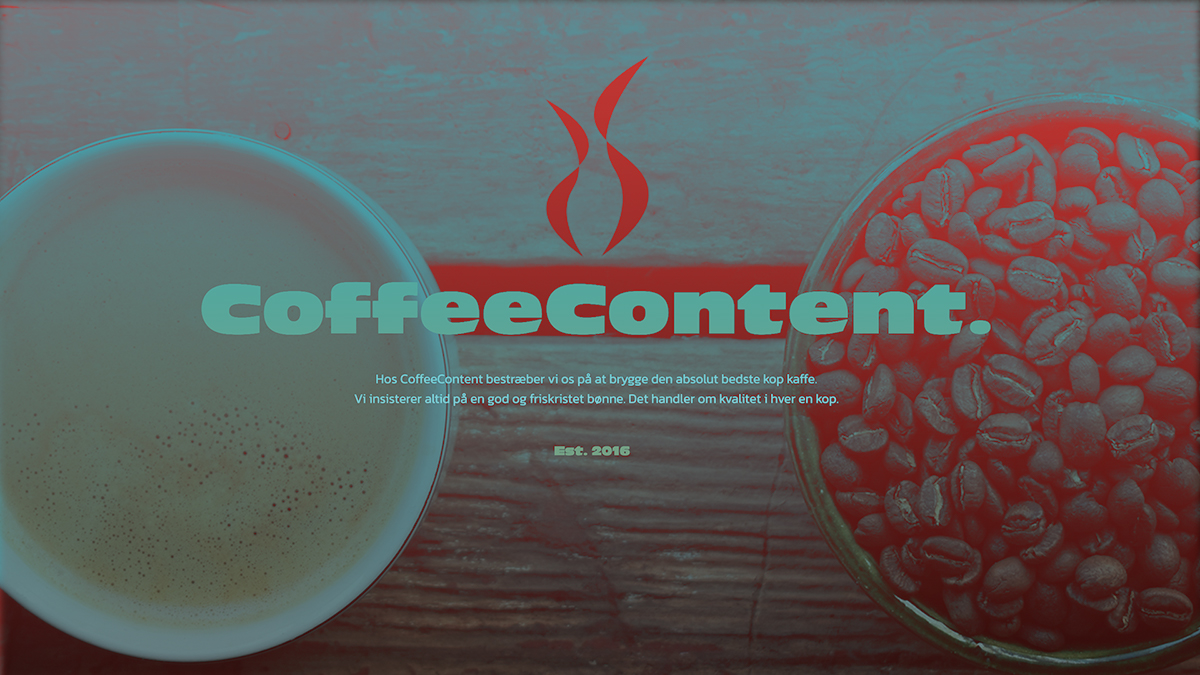
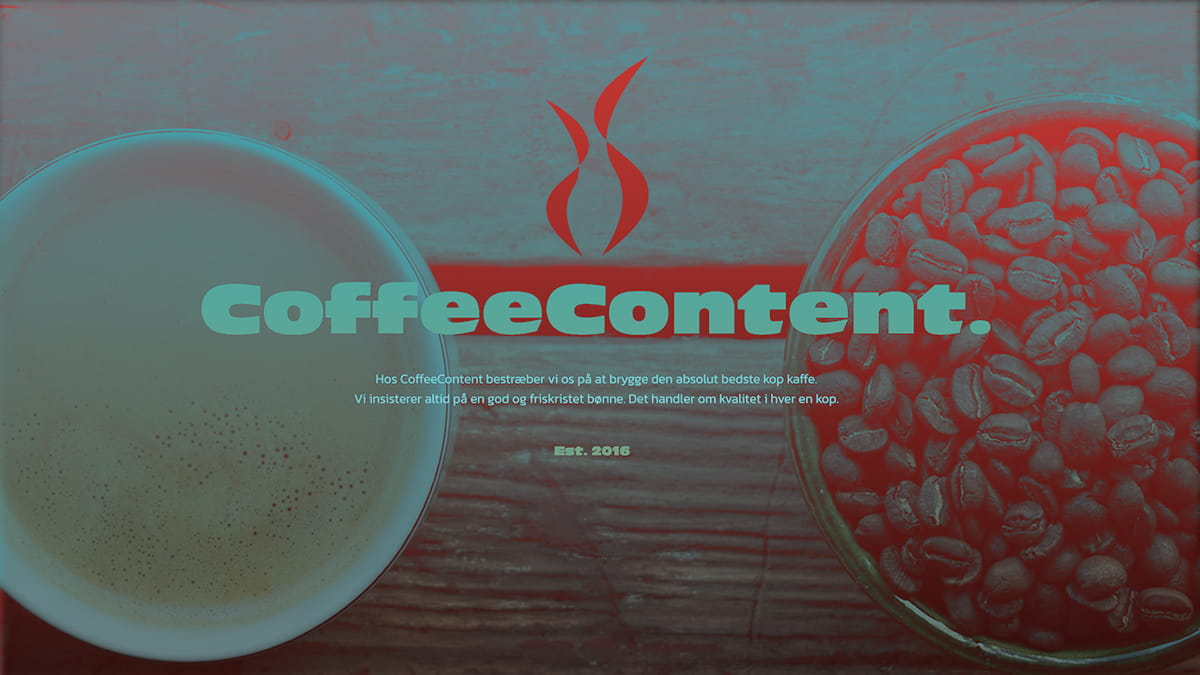
optimering af billeder

Changed region(s): [[0.3083, 0.56, 0.7092, 0.6222], [0.4933, 0.4667, 0.5242, 0.4978], [0.4317, 0.4356, 0.4625, 0.4667]]

diff --git a/index.html b/index.html
@@ -76,13 +76,13 @@
         <h2>Projekter</h2>
         <div class="image-container">
 
-            <figure> <a href="web.html"><img src="billeder/projektPrejpg.jpg" alt="projekt"></a>
+            <figure> <a href="web.html"><img src="billeder/projektPrejpg-kopi.jpg" alt="projekt"></a>
 
                 <figcaption>Grundlæggende Web</figcaption>
 
             </figure>
 
-            <figure> <a href="ux.html"><img src="billeder/projektpre2.jpg" alt="projekt"></a>
+            <figure> <a href="ux.html"><img src="billeder/projektpre2-kopi.jpg" alt="projekt"></a>
 
 
                 <figcaption>UI/UX</figcaption>
@@ -93,14 +93,14 @@
 
         <section id="thirdsectionProjectsPre2">
             <div class="image-container">
-                <figure><a href="animation.html"><img src="billeder/projektPre4.jpg" alt="projekt"></a>
+                <figure><a href="animation.html"><img src="billeder/projektPre4-kopi.jpg" alt="projekt"></a>
 
 
                     <figcaption>Animation</figcaption>
 
                 </figure>
 
-                <figure><a href="indhold.html"><img src="billeder/proejktPre3.jpg" alt="projekt"></a>
+                <figure><a href="indhold.html"><img src="billeder/proejktPre3-kopi.jpg" alt="projekt"></a>
 
                     <figcaption>Indhold</figcaption>
 

diff --git a/om.html b/om.html
@@ -77,7 +77,7 @@
 
     <section id="fourthparagraphommig">
         <div class="overskriftogimg">
-            <a href="https://www.instagram.com/arianadanmark/" target="_blank"><img src="billeder/arianadanmark.png" alt="arianadanmark"></a>
+            <a href="https://www.instagram.com/arianadanmark/" target="_blank"><img src="billeder/arianadanmark-kopi.jpg" alt="arianadanmark"></a>
         </div>
         <div class="parianadanmark">
             <h2>Arianadanmark</h2>
